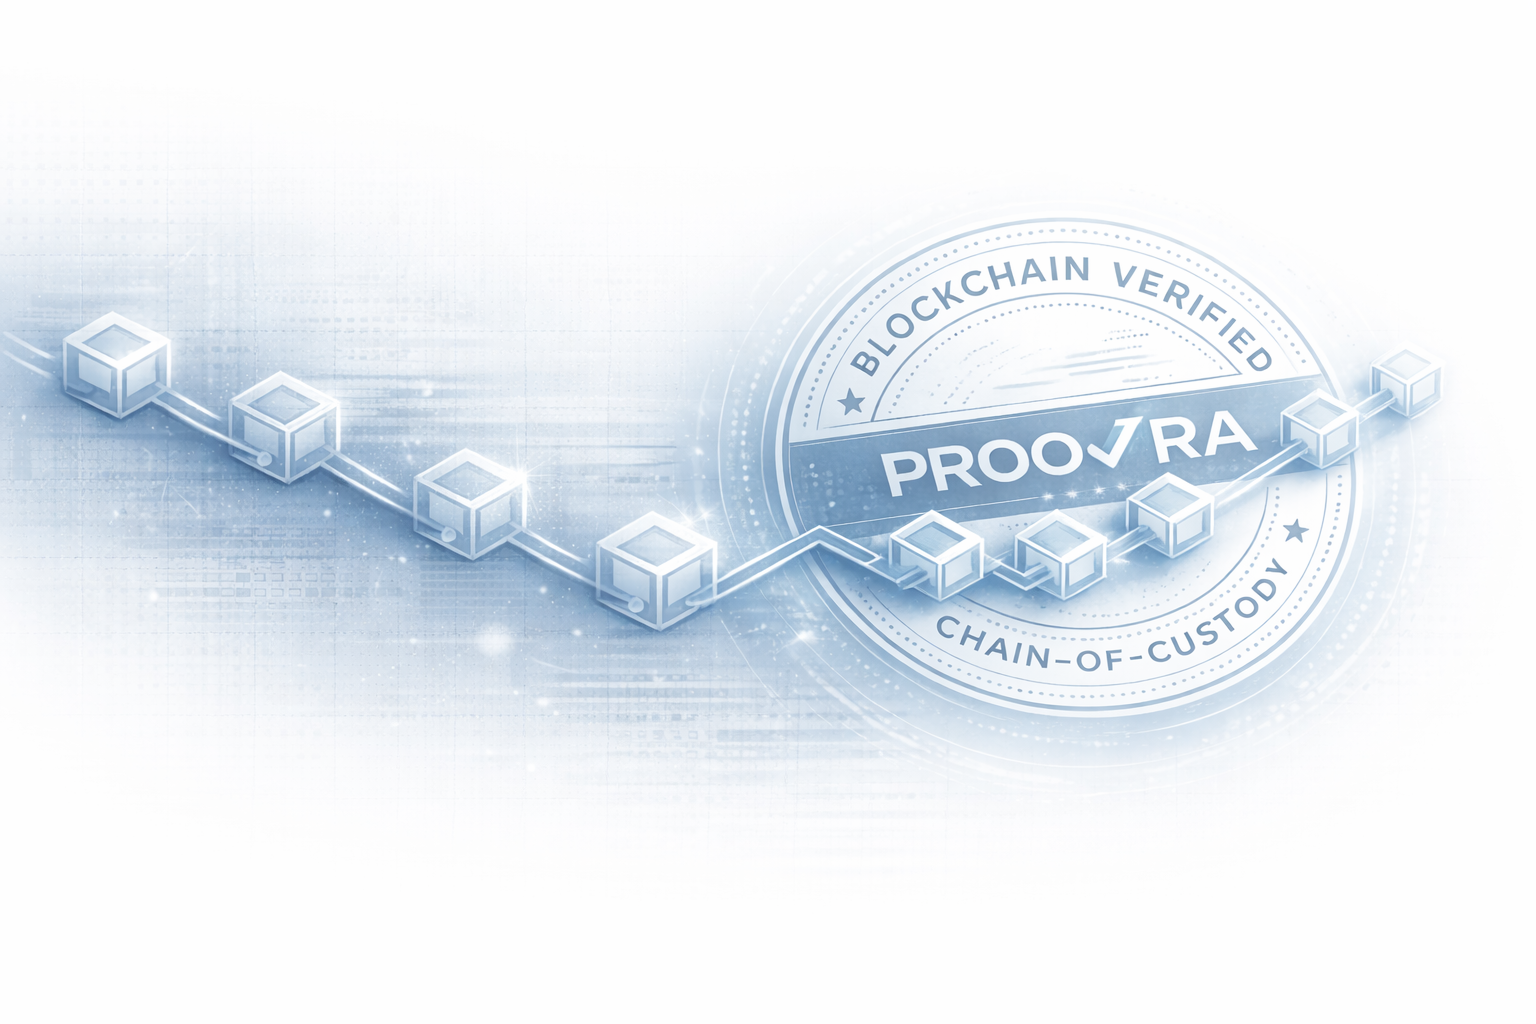
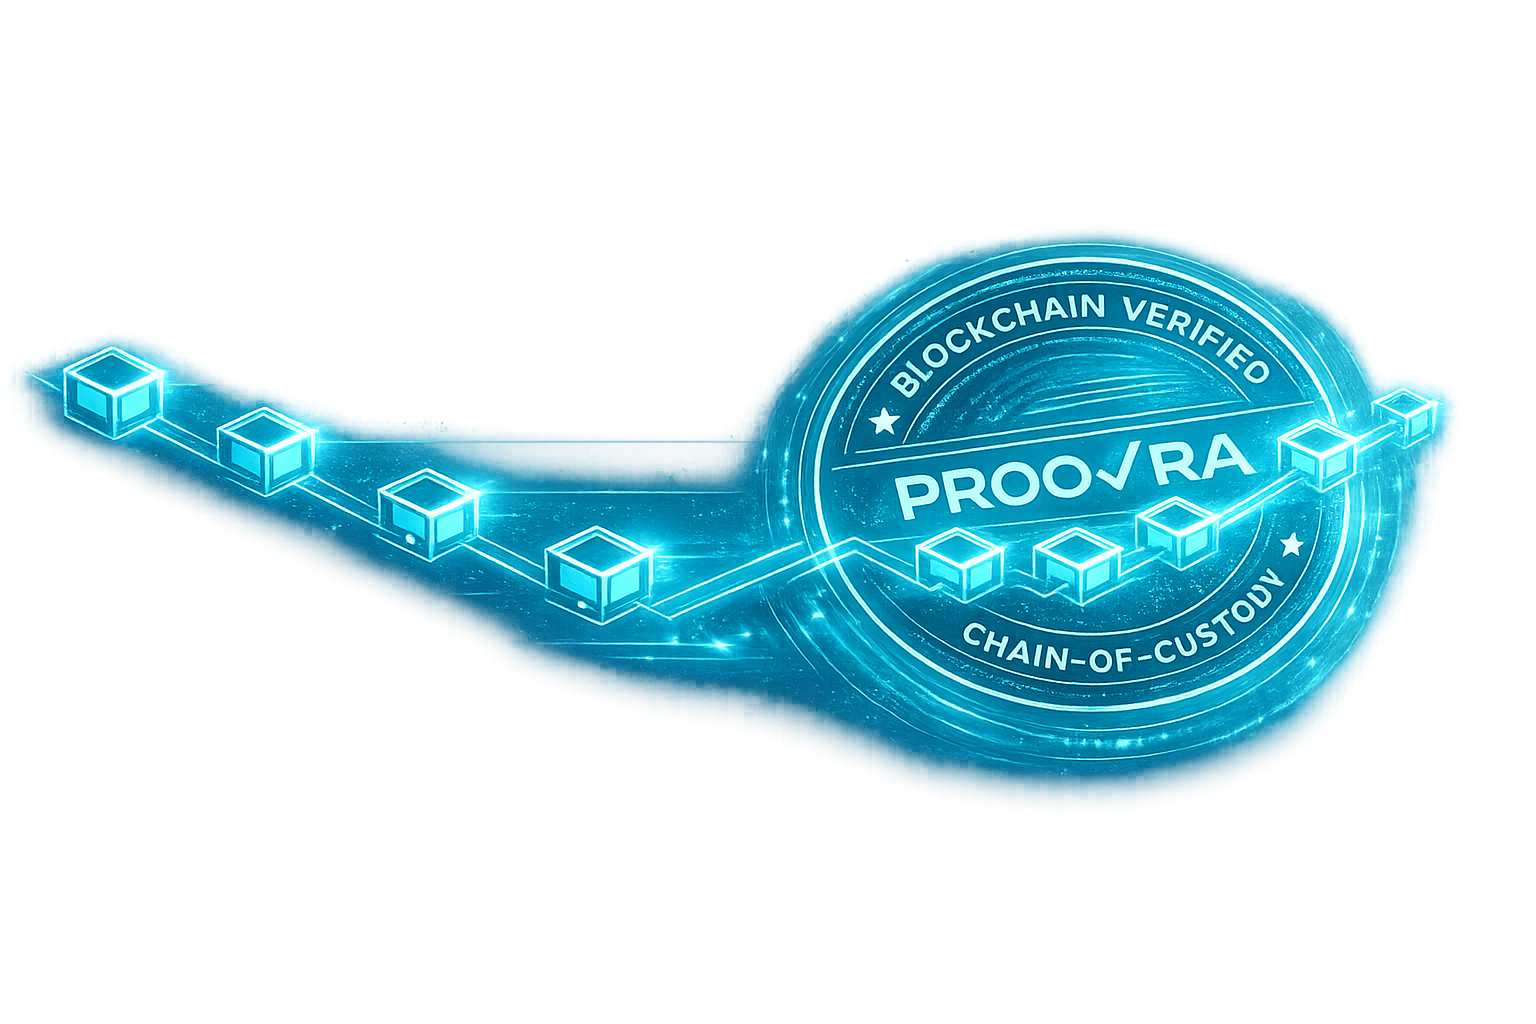
Update landing stylesheet and watermark asset

diff --git a/apps/web/app/globals.css b/apps/web/app/globals.css
@@ -2383,3 +2383,15 @@ p {
   width: 100%;
 }
 
+.silver-watermark-image {
+  position: absolute;
+  inset: 0;
+  width: 100%;
+  height: 100%;
+  object-fit: cover;
+  pointer-events: none;
+  z-index: 0;
+
+  mix-blend-mode: screen;   /* هذا السحر */
+  opacity: 0.85;            /* قوة النيون */
+}
